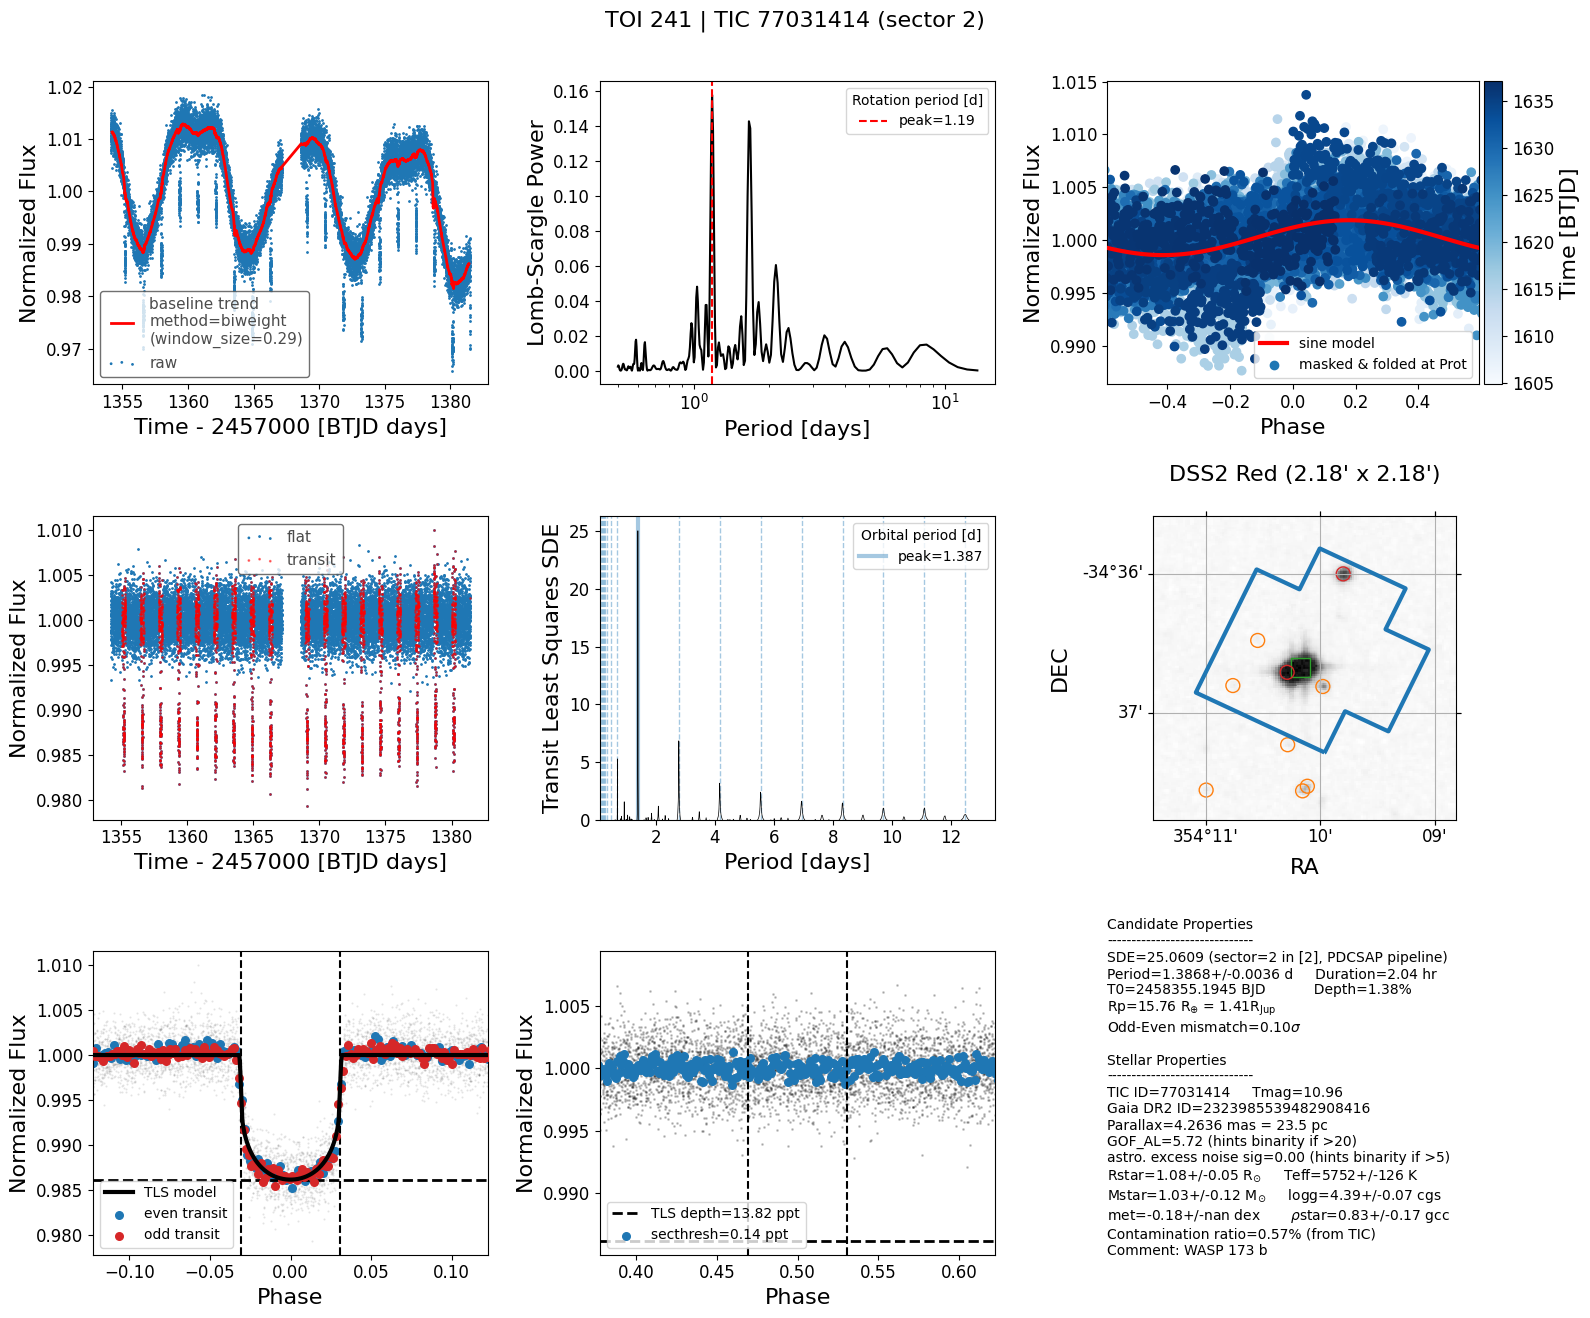
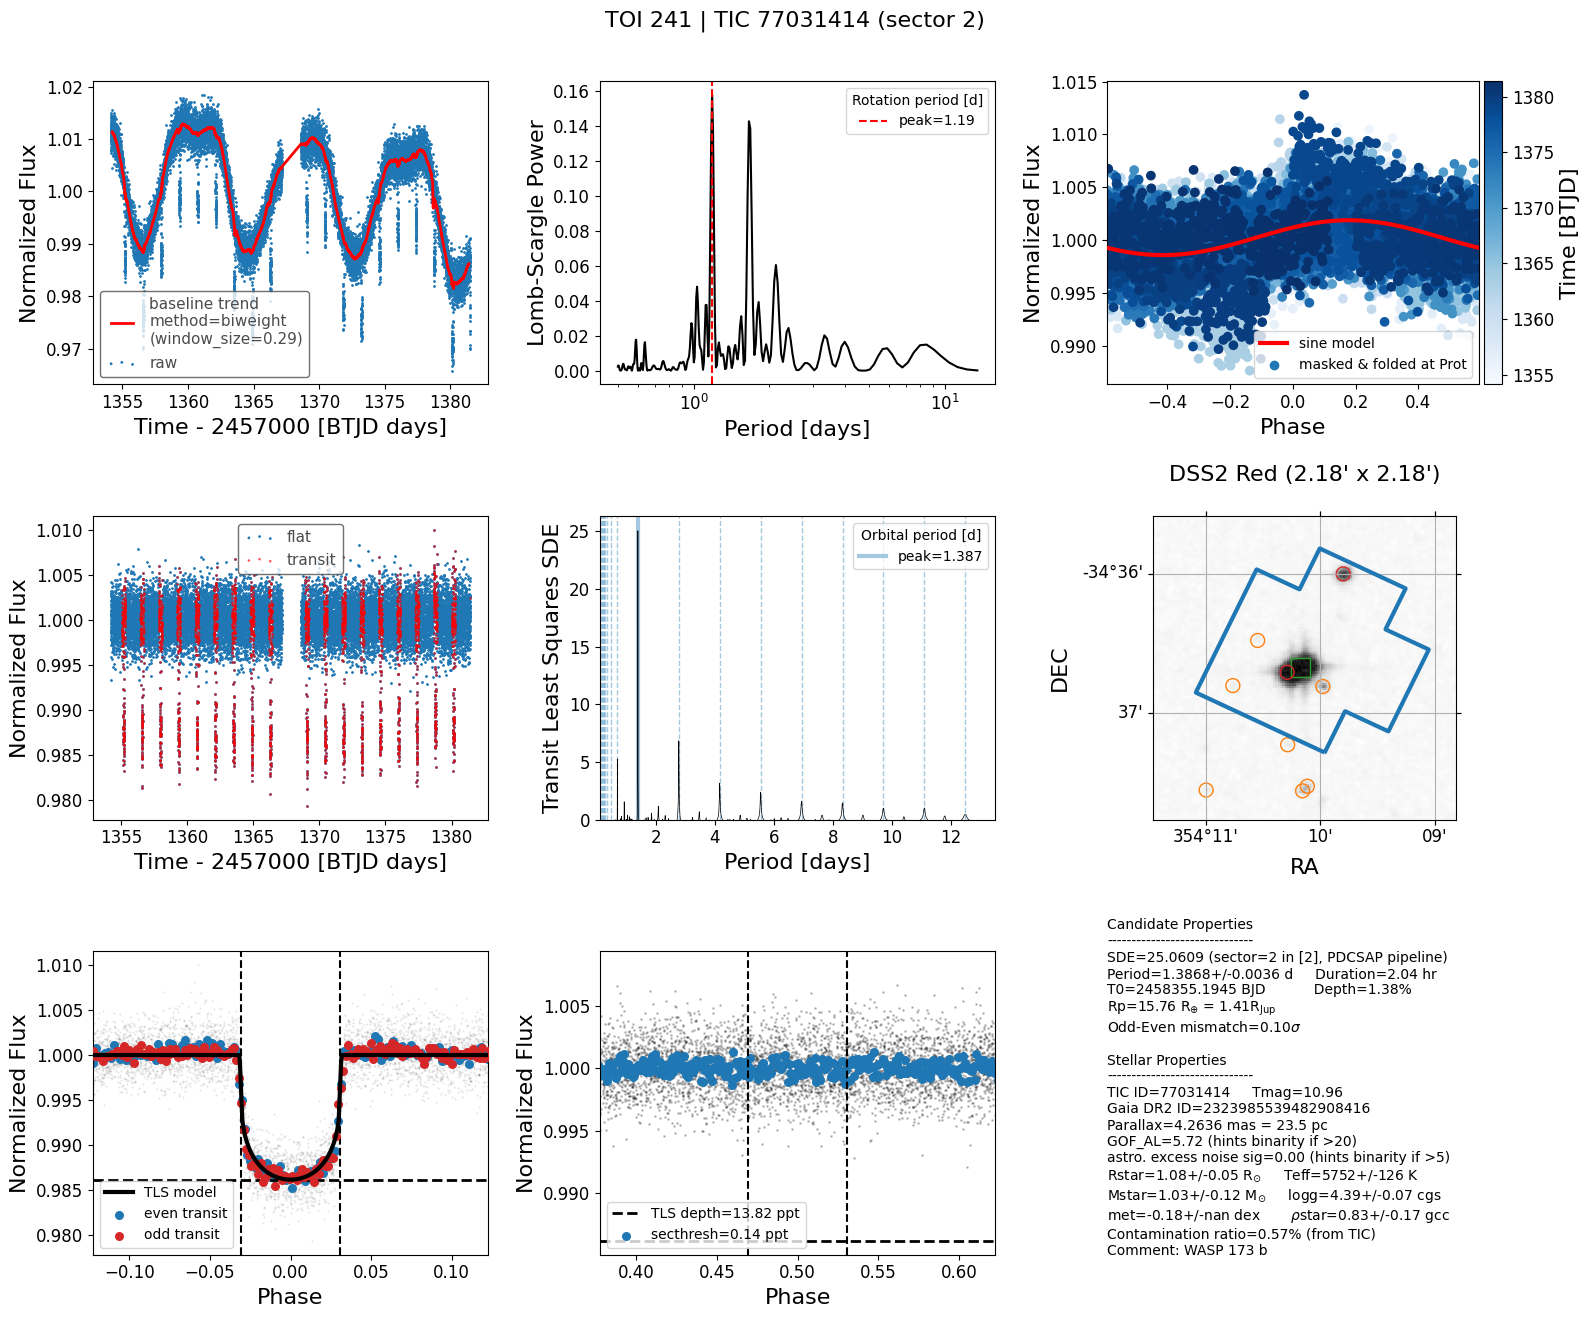
fix phase in Prot panel

Changed region(s): [[0.678, 0.0622, 0.9862, 0.3111]]

diff --git a/tql/tql.py b/tql/tql.py
@@ -480,13 +480,12 @@ def plot_tql(
             zorder=3,
         )
         phase = ((time / best_period) % 1) - offset
-
         label += "folded at Prot"
         # plot phase-folded lc with masked transits
         a = ax.scatter(
-            (phase * best_period)[~tmask] * best_period,
+            (phase * best_period)[~tmask],
             dlc.flux[~tmask],
-            c=dlc.time[~tmask] * best_period,
+            c=dlc.time[~tmask],
             label=label,
             cmap=pl.get_cmap("Blues"),
         )
